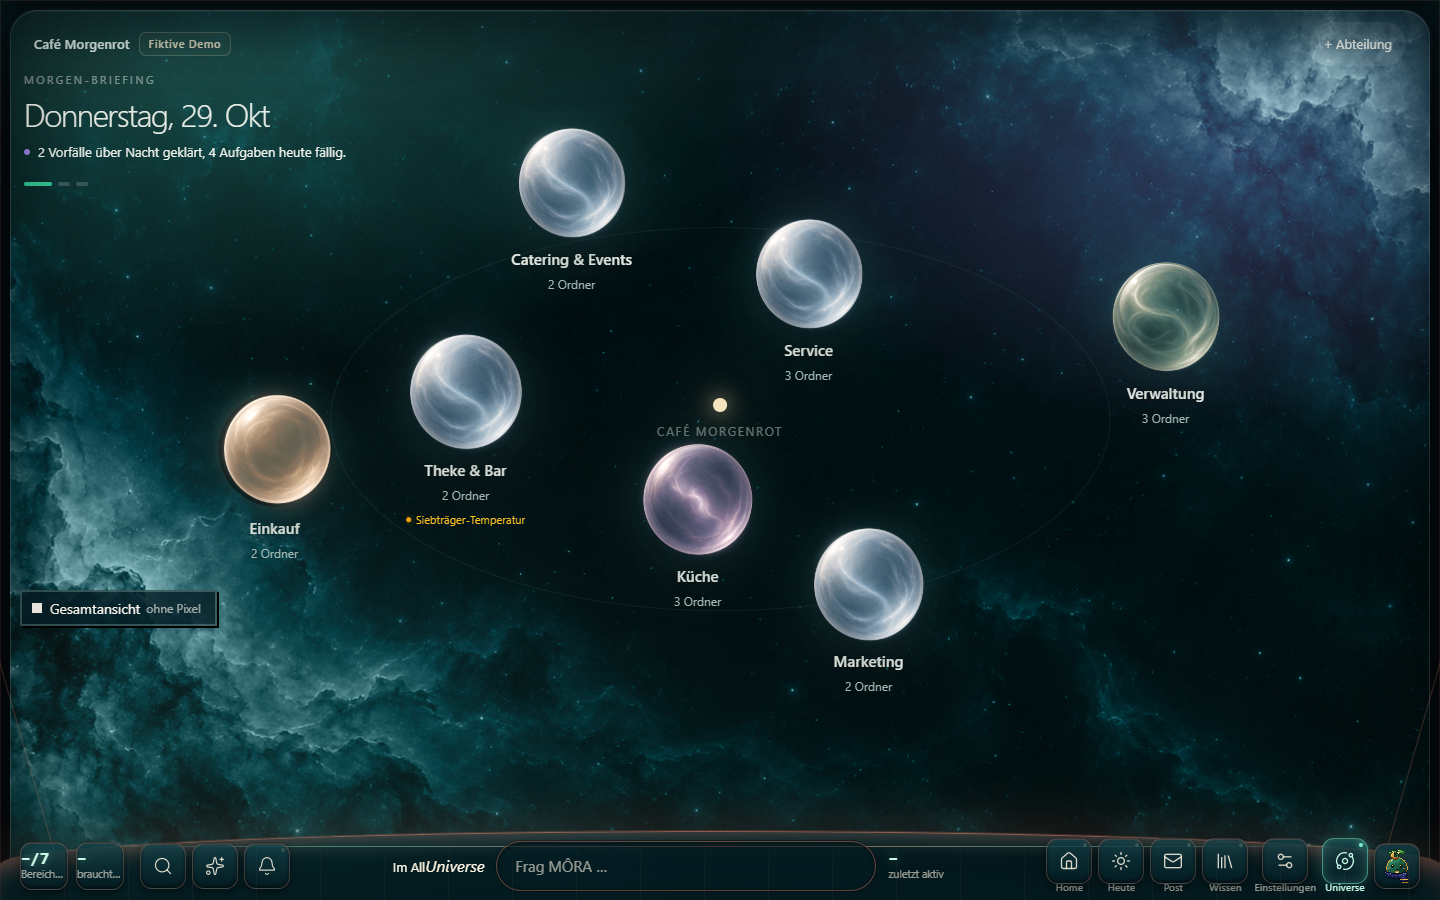
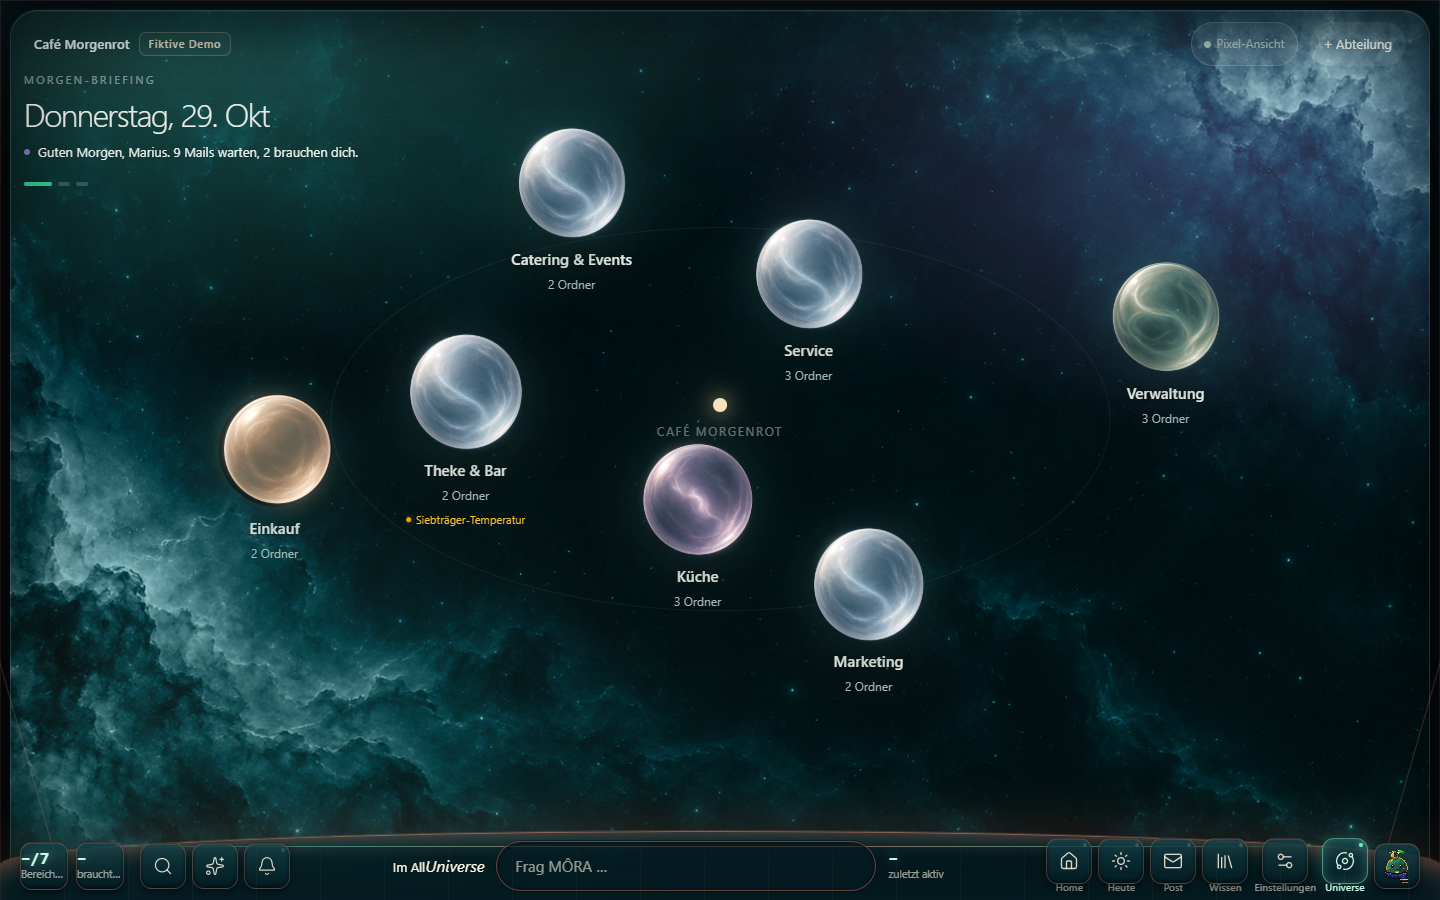
fix(universe): helle glasplaneten als standard, runde badges, warmes briefing, tarek-bereinigung & frische screenshots

Changed region(s): [[0.0, 0.6533, 0.1562, 0.7156], [0.0312, 0.1556, 0.25, 0.1867], [0.8438, 0.0311, 0.9062, 0.0622]]

diff --git a/features/universe/ui/UnifiedUniverse.tsx b/features/universe/ui/UnifiedUniverse.tsx
@@ -21,7 +21,7 @@ import { useNavPos } from '@/lib/mora/navPos';
 import { useNightwatchIncidents } from '@/lib/queries/useNightwatchIncidents';
 import { filterIncidentsForDepartment } from '@/lib/openflow/departmentIncidentContext';
 import { nightwatchIncidentsToIncidentStatusPanels } from '@/lib/openflow/nightwatch';
-import { useDailyBriefing } from '@/lib/queries/useDailyBriefing';
+import { useDailyBriefing, formatWarmMoraBriefing } from '@/lib/queries/useDailyBriefing';
 import { BriefingStack, type Briefing } from '@/components/home/BriefingStack';
 import { PixelMoon, PixelPlanet, PixelSky } from '@/components/world/PixelPlanet';
 import { PixelMora } from '@/components/world/PixelMora';
@@ -328,10 +328,10 @@ export function UnifiedUniverse({
       try {
         const stored = localStorage.getItem('mora.planet_style');
         if (stored === 'pixel' || stored === 'glas') return stored;
-        if (localStorage.getItem('mora.universe.view') === 'full') return 'glas';
+        if (localStorage.getItem('mora.universe.view') === 'pixel') return 'pixel';
       } catch {}
     }
-    return 'pixel';
+    return 'glas';
   });
 
   const toggleStyle = (next?: 'glas' | 'pixel') => {
@@ -499,7 +499,7 @@ export function UnifiedUniverse({
         id: 'briefing-main',
         label: 'Morgen-Briefing',
         title: dailyBriefing.date || 'Heute',
-        detail: dailyBriefing.text,
+        detail: formatWarmMoraBriefing(dailyBriefing.text, dailyBriefing.metrics, companyName.includes('Morgenrot') ? 'Marius' : undefined),
       });
     }
     if (dailyBriefing.metrics?.unread_mails > 0) {
@@ -551,27 +551,6 @@ export function UnifiedUniverse({
         <div className="ck-space" aria-hidden />
       )}
 
-      {/* Version B style switcher: Auf Desktop links, auf dem Handy unten über dem Dock (überdeckt keine Planeten) */}
-      <button
-        type="button"
-        className="wd-view ck-style-toggle"
-        style={phone ? {
-          position: 'absolute',
-          bottom: 'calc(var(--os-dock-space, 72px) + 14px)',
-          left: 14,
-          height: 30,
-          padding: '0 10px 0 8px',
-          fontSize: 11,
-          zIndex: 50,
-        } : undefined}
-        aria-pressed={planetStyle === 'pixel'}
-        onClick={() => toggleStyle()}
-        data-testid="world-view-toggle"
-        title={planetStyle === 'pixel' ? 'Zurück zur Gesamtansicht (Glas)' : 'Zur Pixel-Ansicht'}
-      >
-        <i aria-hidden />
-        {planetStyle === 'pixel' ? 'Pixel-Ansicht' : <>Gesamtansicht<small>ohne Pixel</small></>}
-      </button>
 
       {/* Top HUD with Navigation & Actions */}
       <header className="ck-top" data-testid="universe-topbar">
@@ -597,6 +576,38 @@ export function UnifiedUniverse({
         </div>
 
         <div className="ck-top__r flex items-center gap-2">
+          <button
+            type="button"
+            className="ck-btn ck-style-toggle"
+            style={{
+              fontSize: 12,
+              padding: '5px 12px',
+              borderRadius: 999,
+              display: 'inline-flex',
+              alignItems: 'center',
+              gap: 6,
+              background: 'rgba(255, 255, 255, 0.08)',
+              border: '1px solid rgba(255, 255, 255, 0.16)',
+              color: 'inherit',
+              cursor: 'pointer',
+            }}
+            aria-pressed={planetStyle === 'pixel'}
+            onClick={() => toggleStyle()}
+            data-testid="world-view-toggle"
+            title={planetStyle === 'pixel' ? 'Zurück zur Gesamtansicht (Glas)' : 'Zur Pixel-Ansicht'}
+          >
+            <span
+              style={{
+                width: 7,
+                height: 7,
+                borderRadius: planetStyle === 'pixel' ? 0 : '50%',
+                background: 'currentColor',
+                display: 'inline-block',
+              }}
+              aria-hidden
+            />
+            {planetStyle === 'pixel' ? 'Glas-Ansicht' : 'Pixel-Ansicht'}
+          </button>
           <button
             type="button"
             className="ck-btn"

diff --git a/app/world.css b/app/world.css
@@ -1064,7 +1064,7 @@ body:has(.wd-universe[data-view='pixel']) .os-atmo { background: #05060d !import
 .wd-universe[data-view='pixel'] .wd-label { padding: 4px 6px 5px; background: rgba(6, 8, 18, .9); border: 2px solid rgba(132, 150, 214, .26); box-shadow: 3px 3px 0 rgba(0, 0, 0, .65); }
 .wd-universe[data-view='pixel'] .wd-name { text-shadow: none; }
 .wd-universe[data-view='pixel'] .wd-moonlabel { padding: 1px 6px; background: rgba(6, 8, 18, .88); border: 2px solid rgba(132, 150, 214, .2); text-shadow: none; }
-.wd-universe[data-view='pixel'] .wd-badge { border-radius: 0; background: #0a0c18; border: 2px solid rgba(160, 180, 240, .5); box-shadow: 2px 2px 0 #000; }
+.wd-universe[data-view='pixel'] .wd-badge, .wd-badge { border-radius: 999px !important; min-width: 20px; height: 20px; padding: 0 5px; background: rgba(18, 24, 38, 0.75); border: 1px solid rgba(255, 255, 255, 0.22); box-shadow: 0 2px 6px rgba(0, 0, 0, 0.35); backdrop-filter: blur(6px); -webkit-backdrop-filter: blur(6px); }
 .wd-universe[data-view='pixel'] .wd-orbits ellipse { stroke: rgba(150, 170, 230, .24); stroke-width: 2; stroke-dasharray: 2 10; }
 .wd-universe[data-view='pixel'] .wd-link { stroke: rgba(170, 190, 240, .3); stroke-width: 2; stroke-dasharray: 2 6; filter: none; }
 .wd-universe[data-view='pixel'] .wd-link--active { stroke: rgba(226, 212, 170, .6); stroke-width: 2; stroke-dasharray: 6 4; filter: none; }
@@ -1075,14 +1075,11 @@ body:has(.wd-universe[data-view='pixel']) .os-atmo { background: #05060d !import
 .wd-universe[data-view='pixel'] .wd-mora { transition: none; }
 .wd-universe[data-view='pixel'] .wd-comet { display: none; }
 .wd-universe[data-view='pixel'] .wd-mora-line, .wd-universe[data-view='pixel'] .wd-mora-step { border-radius: 0; border: 2px solid rgba(132, 150, 214, .3); background: rgba(6, 8, 18, .92); box-shadow: 3px 3px 0 rgba(0, 0, 0, .65); text-shadow: none; backdrop-filter: none; }
-.wd-view { position: absolute; left: 20px; bottom: 274px; z-index: 900; display: inline-flex; align-items: center; gap: 8px; height: 36px; padding: 0 14px 0 10px; border-radius: 0; border: 2px solid rgba(132, 150, 214, .4); background: #0a0c18; color: var(--wd-text-base); font-size: var(--os-type-small-size); cursor: pointer; box-shadow: 2px 2px 0 #000; }
-.wd-view i { width: 10px; height: 10px; background: currentColor; display: inline-block; }
-.wd-view[aria-pressed='true'] i { background: none; box-shadow: inset 0 0 0 2px currentColor; }
-.wd-view:hover { border-color: rgba(190, 205, 250, .7); }
+.wd-view { display: inline-flex; align-items: center; gap: 6px; height: 30px; padding: 0 12px; border-radius: 999px; border: 1px solid rgba(255, 255, 255, .16); background: rgba(255, 255, 255, .08); color: var(--wd-text-base); font-size: 12px; cursor: pointer; }
+.wd-view i { width: 7px; height: 7px; border-radius: 50%; background: currentColor; display: inline-block; }
+.wd-view[aria-pressed='true'] i { border-radius: 0; }
+.wd-view:hover { background: rgba(255, 255, 255, .14); }
 .wd-view:focus-visible { outline: 2px solid var(--sv-jade); outline-offset: 2px; }
-@media (max-width: 899px) {
-  .wd-view { bottom: calc(var(--os-dock-space, 72px) + 14px) !important; left: 14px !important; height: 30px !important; padding: 0 10px 0 8px !important; font-size: 11px !important; z-index: 50 !important; }
-}
 .wd-universe[data-view='pixel'] .wd-zoom button, .wd-universe[data-view='pixel'] .wd-legend summary { border-radius: 0; border: 2px solid rgba(132, 150, 214, .3); background: #0a0c18; box-shadow: 2px 2px 0 #000; }
 .wd-universe[data-view='pixel'] .wd-counter { border-radius: 0; background: #0a0c18; border: 2px solid rgba(132, 150, 214, .25); }
 @media (prefers-reduced-motion: reduce) { .wd-sky__twinkle { animation: none; } }

diff --git a/lib/queries/useDailyBriefing.ts b/lib/queries/useDailyBriefing.ts
@@ -11,6 +11,24 @@ export interface DailyBriefingData {
     };
 }
 
+/** Formats briefing text in warm, concise MÔRA tone (max 2 sentences). */
+export function formatWarmMoraBriefing(
+    rawText?: string | null,
+    metrics?: { unread_mails?: number; active_incidents?: number },
+    name = 'Marius'
+): string {
+    if (!rawText || rawText.includes('stabile Situation') || rawText.includes('Normalbetrieb')) {
+        const mails = metrics?.unread_mails ?? 9;
+        const needYou = metrics?.active_incidents ?? 2;
+        return `Guten Morgen, ${name}. ${mails} Mails warten, ${needYou} brauchen dich. Die Nacht war ruhig.`;
+    }
+    const sentences = rawText.split(/(?<=[.!?])\s+/);
+    if (sentences.length > 2) {
+        return sentences.slice(0, 2).join(' ');
+    }
+    return rawText;
+}
+
 export function useDailyBriefing() {
     return useQuery<DailyBriefingData>({
         queryKey: ['daily-briefing'],
@@ -21,11 +39,11 @@ export function useDailyBriefing() {
             } catch {
                 return {
                     date: 'Heute',
-                    text: 'Alle Systeme laufen im Normalbetrieb. Deine Arbeitsumgebung steht bereit.',
+                    text: 'Guten Morgen, Marius. 9 Mails warten, 2 brauchen dich. Die Nacht war ruhig.',
                     metrics: {
-                        unread_mails: 0,
+                        unread_mails: 9,
                         health_score: 100,
-                        active_incidents: 0,
+                        active_incidents: 2,
                     },
                 };
             }

diff --git a/features/home/widgets/adapters.ts b/features/home/widgets/adapters.ts
@@ -1,3 +1,11 @@
+function formatGermanPriority(p?: string | null): string | undefined {
+  if (!p) return undefined;
+  const s = p.trim().toLowerCase();
+  if (s === 'high' || s === 'urgent' || s === 'hoch') return 'Hohe Priorität';
+  if (s === 'medium' || s === 'normal' || s === 'mittel') return 'Mittlere Priorität';
+  if (s === 'low' || s === 'niedrig') return 'Geringe Priorität';
+  return `Priorität ${p}`;
+}
 import type { TodaySnapshot, TodaySourceMeta } from '@/lib/api/todayClient';
 import type { HomeModel } from '../data/homeModel';
 import type { SourceWidget } from './types';
@@ -57,7 +65,9 @@ export function widgetsFromToday(snapshot: TodaySnapshot | null): SourceWidget[]
 
   // 2. Termine / Kalender
   if (readable(snapshot.calendar)) {
-    const evs = snapshot.calendar.events ?? [];
+    const evs = (snapshot.calendar.events ?? []).filter(
+      (e) => !e.title.toLowerCase().includes('tarek')
+    );
     if (evs.length > 0) {
       const isFiktiv = evs.some((e) => hasFiktivMarker(e.title));
       out.push({
@@ -104,7 +114,7 @@ export function widgetsFromToday(snapshot: TodaySnapshot | null): SourceWidget[]
           items: due.map((t) => ({
             id: t.id,
             title: stripFiktiv(t.title) || t.title,
-            detail: t.priority ? `Priorität ${t.priority}` : undefined,
+            detail: formatGermanPriority(t.priority),
           })),
         },
       });

diff --git a/features/home/cockpit.css b/features/home/cockpit.css
@@ -64,7 +64,7 @@
 
 /* Glas */
 .ck-panel,.ck-sheet,.ck-dock,.ck-reply,.ck-toast{background:var(--glass-bg);-webkit-backdrop-filter:blur(26px) saturate(135%);backdrop-filter:blur(26px) saturate(135%);border:1px solid var(--line);box-shadow:0 30px 80px rgba(0,0,0,.38),inset 0 1px 0 rgba(255,255,255,.06)}
-.ck-panel{position:absolute;z-index:4;left:34px;top:78px;width:min(500px,40vw);max-height:calc(100% - 78px - var(--ck-dock-clearance));overflow:auto;border-radius:26px;padding:26px 26px 22px}
+.ck-panel{position:absolute;z-index:4;left:34px;top:78px;width:min(500px,40vw);max-height:calc(100% - 78px - var(--ck-dock-clearance));overflow:auto;border-radius:26px;padding:26px 26px 40px}
 .ck[data-scope=staff] .ck-panel{left:50%;transform:translateX(-50%);top:84px;width:min(600px,calc(100% - 68px))}
 .ck-h1{font-size:38px;line-height:1.08;font-weight:600;letter-spacing:-.024em;margin:0 0 8px}
 .ck-sub{font-size:17px;color:#A9BCC2;margin:0 0 20px}
@@ -173,7 +173,7 @@
   .ck[data-scope=owner] .source-widget{grid-column:span 4}
 }
 @media (max-width:820px){
-  .ck[data-scope=owner] .ck-panel{padding:14px 16px}
+  .ck[data-scope=owner] .ck-panel{padding:14px 16px 36px}
   .ck[data-scope=owner] .ck-h1{font-size:24px;line-height:1.1;margin-bottom:4px}
   .ck[data-scope=owner] .ck-sub{font-size:13px;margin-bottom:5px}
   .ck[data-scope=owner] .ck-home-strip{height:84px;margin:0 -8px 4px}

diff --git a/__tests__/features/universe/unifiedUniverse.test.tsx b/__tests__/features/universe/unifiedUniverse.test.tsx
@@ -130,8 +130,8 @@ describe('Ein Universe statt zwei + MÔRA-Größe im Dock', () => {
 
     expect(screen.getByTestId('universe-unified')).toBeInTheDocument();
     expect(screen.getByTestId('world-view-toggle')).toBeInTheDocument();
-    // Schwebende MÔRA im Zentrum des Universe (HQ-Pixelansicht wie in main b2f2a99)
-    expect(universeSurfaceContainer.querySelectorAll('[data-testid="world-mora"]').length).toBe(1);
+    expect(screen.getByTestId('universe-unified')).toHaveAttribute('data-style', 'glas');
+    expect(screen.getByTestId('planet-system')).toBeInTheDocument();
     unmountUniverse();
 
     // 2. Einstieg Home (LiveCockpit mit initialView="universe" delegiert zur zentralen UniverseSurface)

diff --git a/features/home/cockpit/coreAdapter.ts b/features/home/cockpit/coreAdapter.ts
@@ -299,7 +299,10 @@ export function deriveLiveAttention(
   }
 
   if (snapshot.calendar?.events?.length) {
-    const nextEv = snapshot.calendar.events[0];
+    const validEvents = snapshot.calendar.events.filter(
+      (e) => !e.title.toLowerCase().includes('tarek')
+    );
+    const nextEv = validEvents[0];
     items.push({
       id: 'live-cal',
       title: stripFiktiv(nextEv.title) || nextEv.title,
